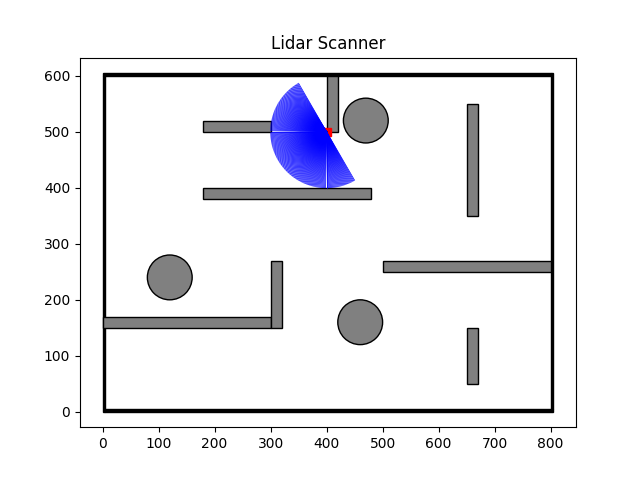
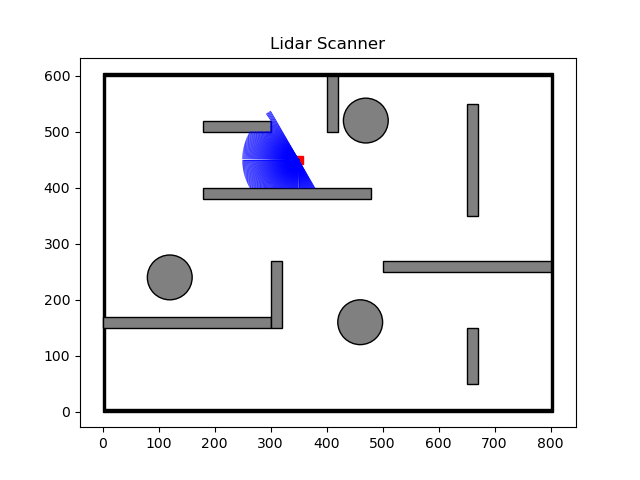
Update obstacle cluster method

diff --git a/main.py b/main.py
@@ -5,6 +5,7 @@ import matplotlib.patches as patches
 
 from env import Env
 from lidar_scanner import LidarScanner
+from obstacle_clustering import clustering
 
 def plot_robot(lidar):
     # Plot environment
@@ -54,11 +55,11 @@ def plot_robot(lidar):
     plt.axis("equal")
     plt.pause(2)
 
-if __name__ == "__main__":
+def main1():
     lidar = LidarScanner((0, 0, 0))
     # lidar
-    xs = [50, 200, 500, 400]
-    ys = [200, 20, 400, 500]
+    xs = [50, 200, 500, 350]
+    ys = [200, 20, 400, 450]
     thetas = [math.pi/2, math.pi/3, math.pi, -5*math.pi/6]
     for i in range(4):
         pos =  (xs[i], ys[i], thetas[i])
@@ -68,3 +69,23 @@ if __name__ == "__main__":
         plot_robot(lidar)
     
     plt.show()
+
+def main2():
+    pos = (350, 450, -5*math.pi/6)
+    lidar = LidarScanner(pos)
+    lidar.sense_obstacle()
+
+    # print("Sensed data: ", lidar.sense_data)
+    plot_robot(lidar)
+    plt.figure()
+    angles = np.arange(lidar.angle_min, lidar.angle_max+lidar.resolution, lidar.resolution)
+    plt.scatter(angles, lidar.sense_data)  
+    clusters = clustering(lidar)
+    for cluster in clusters:
+        plt.scatter(angles[cluster[0]:cluster[-1]+1], lidar.sense_data[cluster[0]:cluster[-1]+1])
+    
+    plt.show()
+
+if __name__ == "__main__":
+    # main1()
+    main2()

diff --git a/obstacle_clustering.py b/obstacle_clustering.py
@@ -1,0 +1,33 @@
+import math
+import numpy as np
+from lidar_scanner import LidarScanner
+
+def clustering(lidar:LidarScanner, thresh=10):
+    """
+    lidar: Lidar information
+    thresh: to determine two secutive ray is resulted of same obstacle [cm]
+    """
+    clusters = []
+    cluster = []
+    values =[]
+    for index,value in enumerate(lidar.sense_data):
+        if value == lidar.range_max:
+            if cluster != []:
+                clusters.append(cluster)
+                cluster = []
+                values =[]
+            continue
+        if cluster == []:
+            cluster.append(index)
+            values.append(value)    
+        elif abs(value - values[-1]) < thresh:
+            cluster.append(index)
+            values.append(value)
+        else:
+            clusters.append(cluster)
+            cluster = [index]
+            values = [value]
+    if cluster != []:
+        clusters.append(cluster)
+    return clusters
+    

diff --git a/README.md b/README.md
@@ -3,16 +3,29 @@ This is a simple 2D LIDAR scanner simulation
 
 ## Requirements
 ```
-python3
-numpy
-matplotlib
+pip install numpy
+pip install matplotlib
 ```
 ## Description
-The environment is defined in ```env.py```.<br>
-The lidar scanner parameters if defined in ```lidar_scanner.py```.
+* The environment is defined in ```env.py```.
+* The lidar scanner parameters if defined in ```lidar_scanner.py```.
+* The obstalce clustering is computed in ```obstacle_clustering.py```
 
-## Results
-![sim1](results/sim_lidar_1.png)
-![sim2](results/sim_lidar_2.png)
-![sim3](results/sim_lidar_3.png)
-![sim4](results/sim_lidar_4.png)
+
+## Lidar visualization and Obstacle clustering
+<p float="left">
+  <img src="results/sim_lidar_1.png" width="400" />
+  <img src="results/sim_cluster_1.png" width="400" /> 
+</p>
+<p float="left">
+  <img src="results/sim_lidar_2.png" width="400" />
+  <img src="results/sim_cluster_2.png" width="400" /> 
+</p>
+<p float="left">
+  <img src="results/sim_lidar_3.png" width="400" />
+  <img src="results/sim_cluster_3.png" width="400" /> 
+</p>
+<p float="left">
+  <img src="results/sim_lidar_4.png" width="400" />
+  <img src="results/sim_cluster_4.png" width="400" /> 
+</p>
